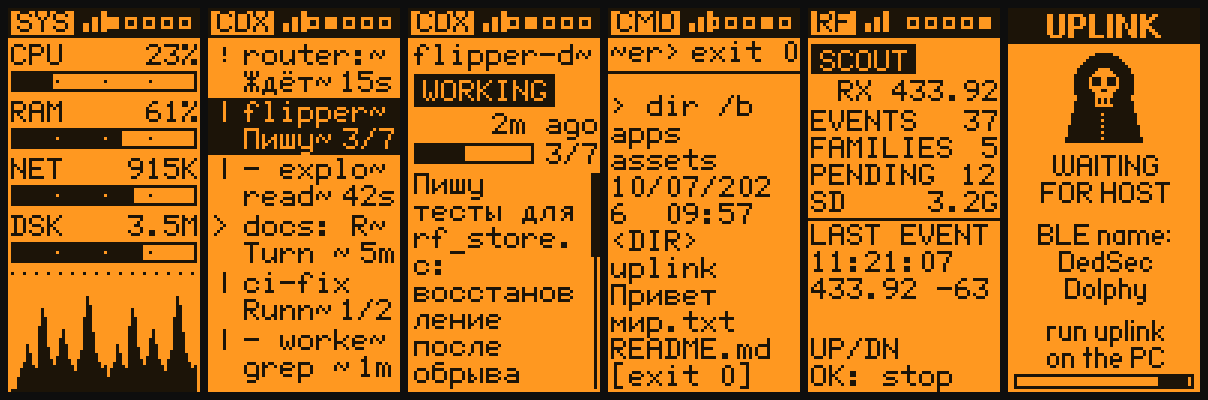
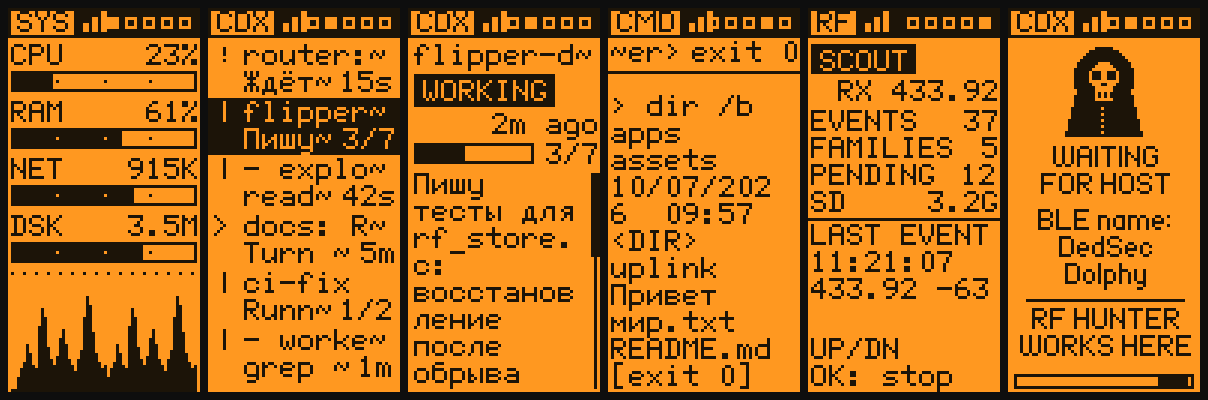
1.5.2: RF Hunter and the settings stay usable with no PC connection
The main view used to replace the whole screen with the "waiting for host" splash on every tab but
RF and CMD, which hid the tab bar — so with no Bluetooth link you could not tell you were able to
reach the RF tab at all.

Now the tab bar is always drawn. Offline, the non-RF tabs (SYS, CDX, CLD, CMD) show the waiting
screen under the bar, while the RF tab draws normally and runs on its own; the settings are reached
as always (Right on the last tab, or holding OK). The waiting screen drops its own title (the bar
carries it) and gains a "RF HUNTER WORKS OFFLINE" reminder. The RF engine already ran without the
PC; this only makes it reachable and discoverable when the companion is away, and records still
import later when it connects.

Changed region(s): [[0.827, 0.33, 0.9801, 0.93], [0.827, 0.03, 1.0, 0.27]]

diff --git a/apps/dedsec_uplink/uplink.c b/apps/dedsec_uplink/uplink.c
@@ -1590,34 +1590,33 @@ static void draw_ota(Canvas* c, App* app) {
     fg(c);
 }
 
+/* Drawn below the tab bar (the header is always up now) while the PC is away: the hood, the state
+ * and the BLE name, plus a reminder that the RF tab works without the PC. */
 static void draw_offline(Canvas* c, App* app) {
     int W = canvas_width(c), H = canvas_height(c);
     bool n = narrow(c);
-    canvas_draw_box(c, 0, 0, W, 12);
-    bg(c);
-    canvas_set_font(c, FontPrimary);
-    canvas_draw_str_aligned(c, W / 2, 2, AlignCenter, AlignTop, n ? "UPLINK" : "DEDSEC // UPLINK");
-    fg(c);
     canvas_set_font(c, FontSecondary);
     const char* state = app->host_closed ? "HOST WENT DARK" : "WAITING FOR HOST";
     if(n) {
-        canvas_draw_icon(c, (W - 26) / 2, 15, &I_hood_26x30);
-        int y = 49;
+        canvas_draw_icon(c, (W - 26) / 2, 13, &I_hood_26x30);
+        int y = 46;
         canvas_draw_str_aligned(c, W / 2, y, AlignCenter, AlignTop, app->host_closed ? "HOST WENT" : "WAITING");
         canvas_draw_str_aligned(c, W / 2, y + 9, AlignCenter, AlignTop, app->host_closed ? "DARK" : "FOR HOST");
-        canvas_draw_str_aligned(c, W / 2, y + 23, AlignCenter, AlignTop, "BLE name:");
-        canvas_draw_str_aligned(c, W / 2, y + 32, AlignCenter, AlignTop, UPLINK_NAME_PREFIX);
-        canvas_draw_str_aligned(c, W / 2, y + 41, AlignCenter, AlignTop, furi_hal_version_get_name_ptr());
-        canvas_draw_str_aligned(c, W / 2, y + 55, AlignCenter, AlignTop, "run uplink");
-        canvas_draw_str_aligned(c, W / 2, y + 64, AlignCenter, AlignTop, "on the PC");
+        canvas_draw_str_aligned(c, W / 2, y + 21, AlignCenter, AlignTop, "BLE name:");
+        canvas_draw_str_aligned(c, W / 2, y + 30, AlignCenter, AlignTop, UPLINK_NAME_PREFIX);
+        canvas_draw_str_aligned(c, W / 2, y + 39, AlignCenter, AlignTop, furi_hal_version_get_name_ptr());
+        canvas_draw_line(c, 6, y + 51, W - 6, y + 51);
+        canvas_draw_str_aligned(c, W / 2, y + 54, AlignCenter, AlignTop, "RF HUNTER");
+        canvas_draw_str_aligned(c, W / 2, y + 63, AlignCenter, AlignTop, "WORKS HERE");
     } else {
         char name[32];
         snprintf(name, sizeof(name), "%s %s", UPLINK_NAME_PREFIX, furi_hal_version_get_name_ptr());
-        canvas_draw_icon(c, 2, 16, &I_hood_26x30);
-        canvas_draw_str_aligned(c, 32, 17, AlignLeft, AlignTop, state);
-        canvas_draw_str_aligned(c, 32, 27, AlignLeft, AlignTop, "BLE name:");
-        canvas_draw_str_aligned(c, 32, 36, AlignLeft, AlignTop, name);
-        canvas_draw_str_aligned(c, 32, 46, AlignLeft, AlignTop, "run uplink on PC");
+        canvas_draw_icon(c, 2, 13, &I_hood_26x30);
+        canvas_draw_str_aligned(c, 32, 14, AlignLeft, AlignTop, state);
+        canvas_draw_str_aligned(c, 32, 24, AlignLeft, AlignTop, "BLE name:");
+        canvas_draw_str_aligned(c, 32, 33, AlignLeft, AlignTop, name);
+        canvas_draw_line(c, 6, H - 21, W - 6, H - 21);
+        canvas_draw_str_aligned(c, W / 2, H - 18, AlignCenter, AlignTop, "RF HUNTER WORKS OFFLINE");
     }
     int span = W - 16;
     int pos = (app->tick * 3) % (span * 2);
@@ -2019,28 +2018,25 @@ static void main_draw(Canvas* c, void* model) {
     canvas_clear(c);
     fg(c);
     ScreenId screen = current_screen(app);
-    // CMD and RF stay usable without the PC (RF is meant to run in a pocket)
-    bool offline = (!app->link || app->host_closed) && screen != ScreenCmd && screen != ScreenRf;
-    if(offline) {
+    // RF Hunter listens without the PC, so its tab stays live even with no link; the other tabs
+    // need the host and show the waiting screen. The tab bar is drawn either way, so you can still
+    // reach RF and the settings (Right on the last tab, or holding OK) without a connection.
+    bool offline = (!app->link || app->host_closed) && screen != ScreenRf;
+    draw_header(c, app);
+    if(offline)
         draw_offline(c, app);
-    } else {
-        draw_header(c, app);
-        if(screen == ScreenSys) {
-            draw_sys(c, app);
-            draw_blackout(c, app);
-        } else if(screen == ScreenRf)
-            draw_rf(c, app);
-        else if(screen == ScreenCmd) {
-            if(!app->link)
-                draw_message(c, app, "link down");
-            else
-                draw_cmd(c, app);
-        } else if(app->detail)
-            draw_detail(c, app, screen_kind(screen));
-        else
-            draw_list(c, app, screen_kind(screen));
-        if(app->alert) draw_alert(c, app);
-    }
+    else if(screen == ScreenSys) {
+        draw_sys(c, app);
+        draw_blackout(c, app);
+    } else if(screen == ScreenRf)
+        draw_rf(c, app);
+    else if(screen == ScreenCmd)
+        draw_cmd(c, app);
+    else if(app->detail)
+        draw_detail(c, app, screen_kind(screen));
+    else
+        draw_list(c, app, screen_kind(screen));
+    if(app->alert) draw_alert(c, app);
     if(app->ota.state != OtaIdle) draw_ota(c, app);
     furi_mutex_release(app->mutex);
 }

diff --git a/uplink/uplink/updater.py b/uplink/uplink/updater.py
@@ -22,7 +22,7 @@ import zlib
 REPO = "liullinil/flipper-dedsec"
 ASSET = "dedsec_uplink.fap"
 COMPANION_ASSET = "DedSecUplink.exe"
-COMPANION_VERSION = "1.5.1"
+COMPANION_VERSION = "1.5.2"
 CHECK_EVERY = 30 * 60      # seconds between release checks
 CHUNK = 192                # raw bytes per chunk (256 base64 chars, fits the Flipper's line buffer)
 WINDOW = 4                 # chunks in flight for apps from 1.2.0 on

diff --git a/apps/dedsec_uplink/uplink_ota.h b/apps/dedsec_uplink/uplink_ota.h
@@ -15,7 +15,7 @@
  *                   UA|written            ack: bytes written so far (also used to resync)
  */
 
-#define UPLINK_VERSION "1.5.1"
+#define UPLINK_VERSION "1.5.2"
 
 typedef enum {
     OtaIdle,

diff --git a/uplink/README.md b/uplink/README.md
@@ -28,7 +28,9 @@ Target: Flipper Zero on Unleashed `unlshd-093c` (API 88.9), Windows 10/11 with B
 - **CMD** — remote shell. Type a command on the Flipper, it runs on the PC, the output and `[exit N]` come back.
   On Windows the companion uses a ConPTY pseudo-terminal, so interactive programs such as `codex`
   can start. While a command is running, press OK again to send another line to its stdin.
-- **RF** — RF Hunter, see below. Unlike the other tabs it works without the PC.
+- **RF** — RF Hunter, see below. Unlike the other tabs it works without the PC: with no companion
+  connected, the other tabs show the waiting screen but the tab bar stays, so you can move to RF
+  (and the settings) and run it on its own.
 
 Status icons: spinner = working · blinking `!` = needs your answer or approval · `>_` = your turn.
 Idle sessions are left out of the lists. A finished session (`>_`) stays until you open its details
@@ -170,8 +172,9 @@ A passive RF logger in the **RF** tab. The Flipper only listens: it never transm
 
 Each event is one JSON record on the SD card (`apps_data/dedsec_uplink/rf/events/`) with the exact time,
 frequency, RSSI min/avg/max, duration and pulse timings. The tab counts events and distinct signal
-families, shows what still waits for the PC, free space and the last event. It works without the PC: start
-it and put the Flipper in a pocket.
+families, shows what still waits for the PC, free space and the last event. It works without the PC: even
+with no Bluetooth link the RF tab and the settings stay live (the other tabs wait for the host), so you
+can start it and put the Flipper in a pocket; the records are imported later when the companion connects.
 
 **What was that?** Every capture is decoded on the Flipper before it is saved, from the pulse timings
 alone, and the tab says so: `12:41 KeeLoq 66b -63dB` with `sn 0ABCDEF btn 2` under it, `Princeton 24b` with
